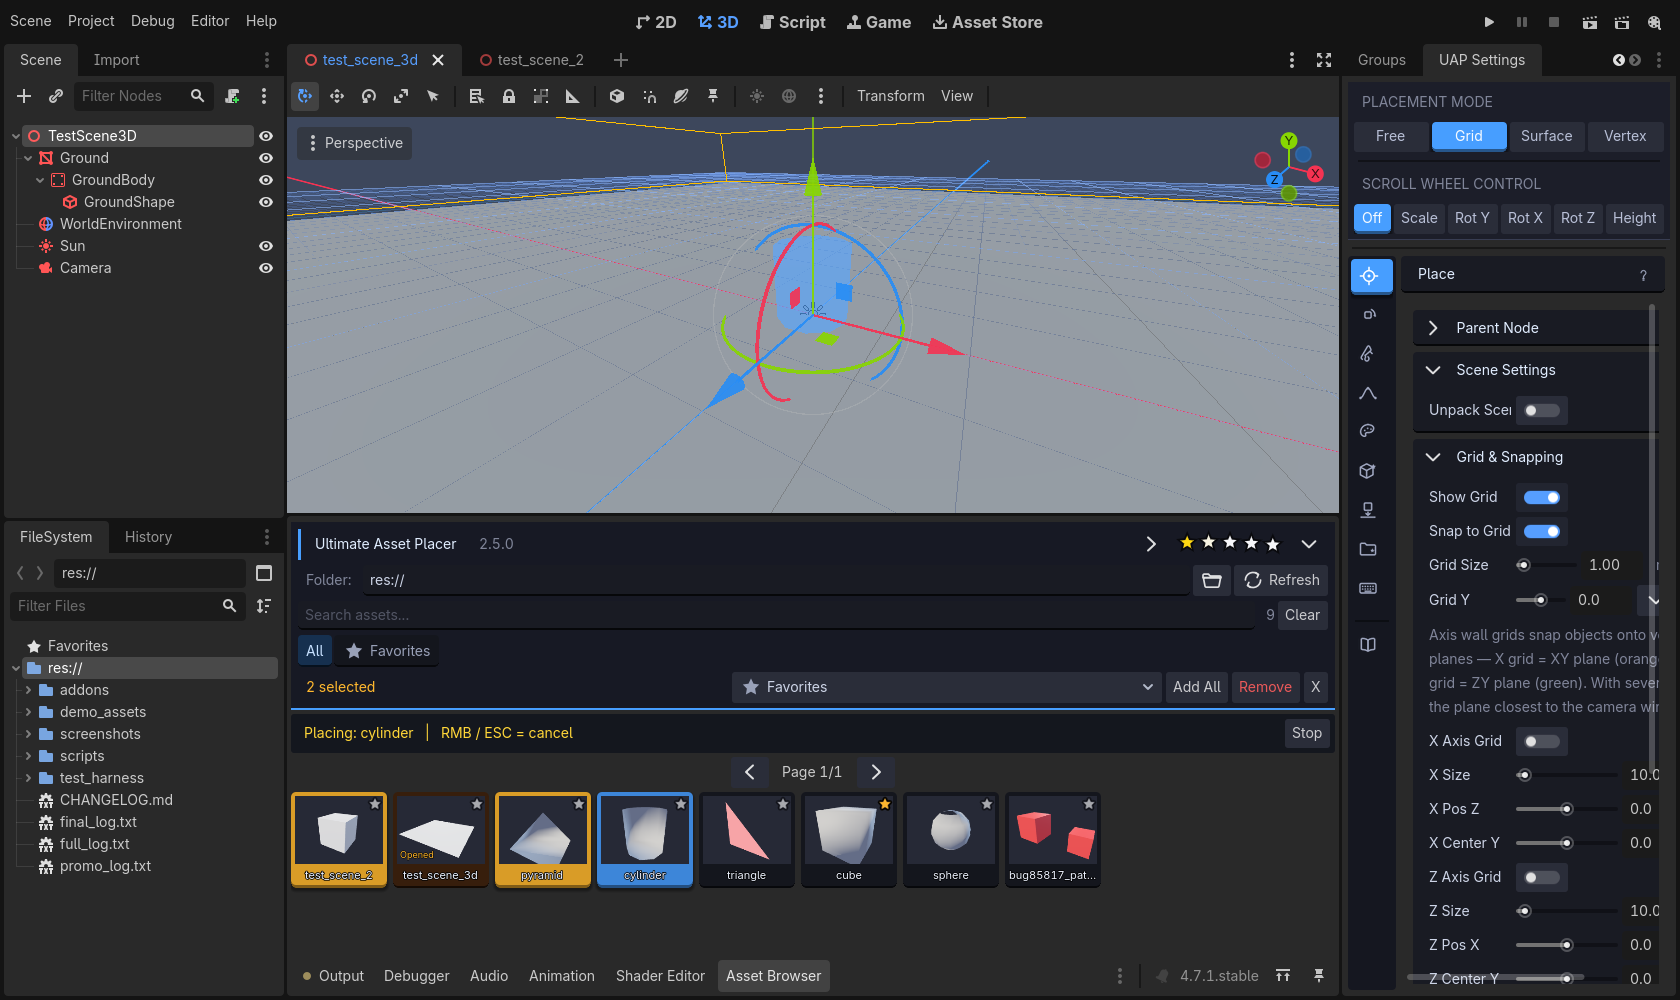
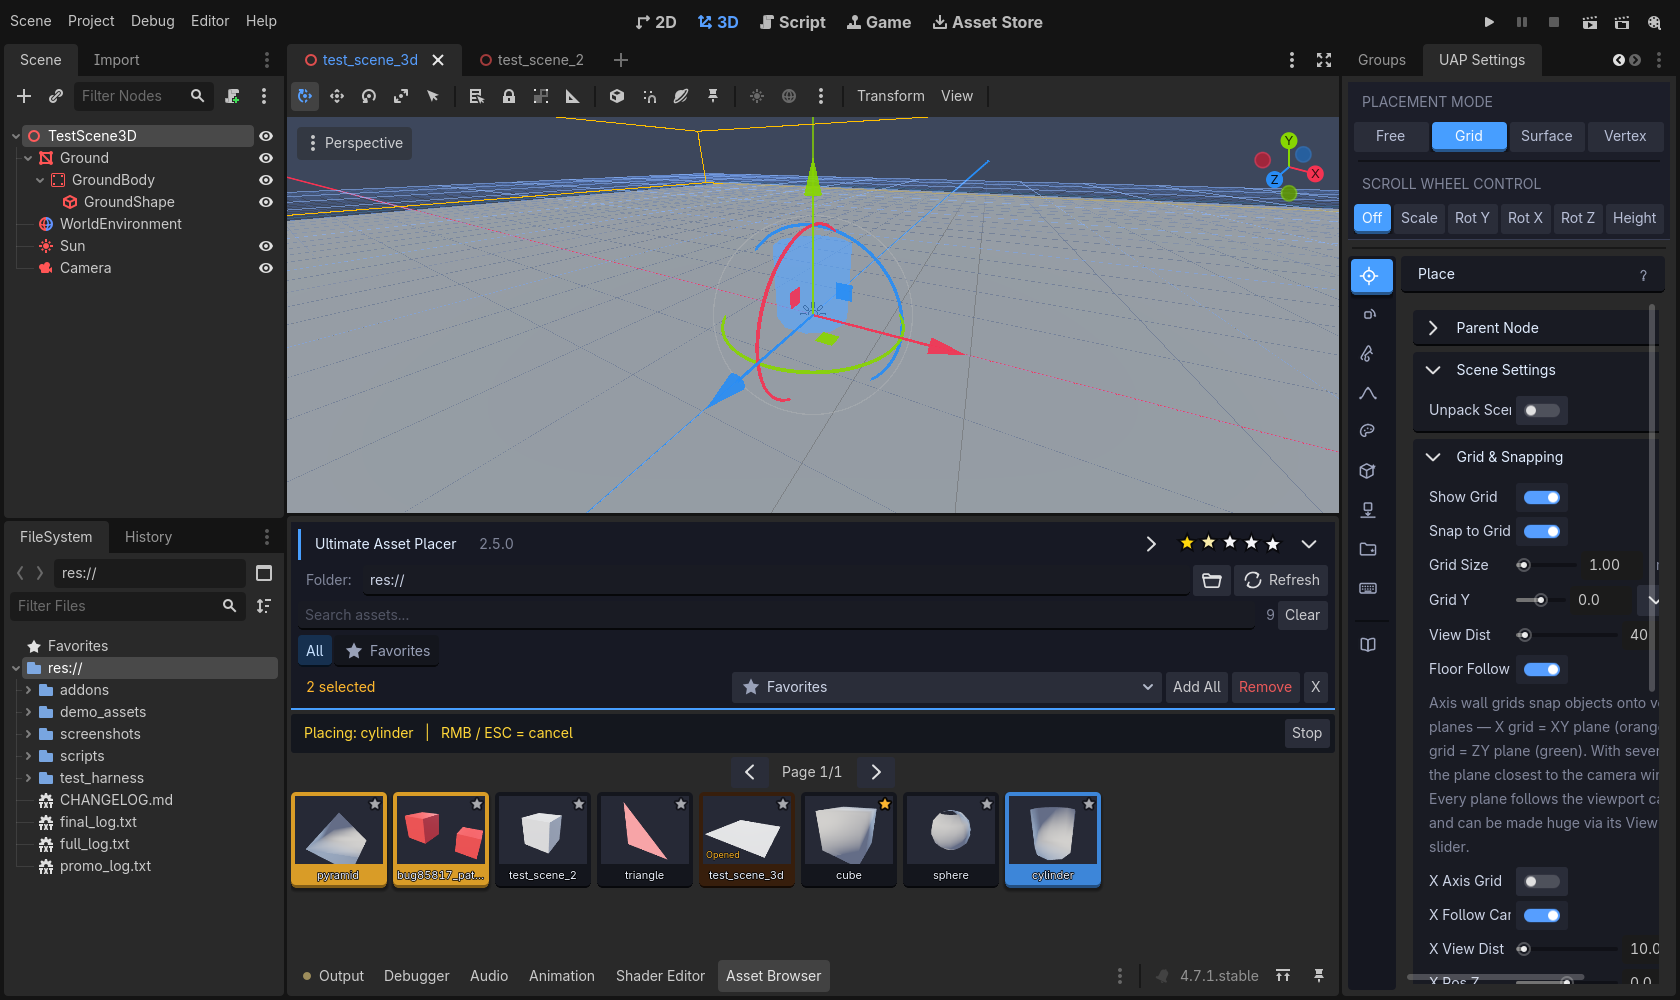
rev 8: infinite camera-following grids (per-plane View Dist 1-2000m + Follow Cam toggles, 3-node split, world-locked lines) + re-add after remove fix (unhide on drag-drop/import/merge); docs+README+CHANGELOG; harness 80 steps

diff --git a/README.md b/README.md
@@ -9,7 +9,8 @@
 ## Highlights
 
 - **Four placement modes** — Free, Grid, Surface (physics raycast), and Vertex (mesh magnet snap).
-- **Axis wall grids** — optional X/Z vertical snap planes (orange XY wall / green ZY wall), each with its own size, position and on/off toggle; objects snap onto whichever enabled plane is under the mouse.
+- **Infinite camera-following grids** — the floor and the optional X/Z wall grids ride the viewport camera (lines stay locked onto world coordinates), each with an adjustable view distance up to 2000 m; grid is always right where you are.
+- **Axis wall grids** — optional X/Z vertical snap planes (orange XY wall / green ZY wall), each with its own view distance, position and on/off toggle; objects snap onto whichever enabled plane is under the mouse.
 - **Paint & volumetric brush** — drag-paint, circular brush with density/falloff, and mask textures.
 - **MultiMesh painting** — thousands of instances in a single draw call.
 - **Advanced spline system** — scatter props along curves or deform meshes into roads/rivers; terrain snapping; bake to nodes or MultiMesh.
@@ -20,6 +21,30 @@
 - **Asset Zoo** — lays out your whole library in a 3D grid for inspection.
 
 ## What's new in v2.5.0 — the star, fixed for real; quieter, tighter panel
+
+### Update (rev 8) — infinite camera-following grids + re-add after remove
+
+**The grids follow you now.** Every grid plane — the blue floor and both
+optional walls — re-centers on the viewport camera as you navigate, so the
+grid renders wherever you are instead of hugging the world center. The lines
+themselves never slide: node positions move in whole Grid Size multiples (the
+bright every-5th rhythm in 5x multiples), so every line stays locked onto the
+same world coordinates and snapped placements still land exactly ON drawn
+lines. Each plane's **View Dist** slider (up to 2000 m) sets how far it
+reaches from the camera — crank it up for an effectively infinite grid. Don't
+want a plane to travel? Turn off its **Follow Cam** toggle and it pins to its
+configured world position again (Center Y back in charge for walls; wall
+planes always stay locked to their Pos axis).
+
+**Re-add fix.** Removing an asset via right-click "Remove from list" used to
+make it impossible to add back: dragging it from the FileSystem dock or
+importing its folder re-registered the file, but a leftover hidden flag kept
+the card invisible forever (only the all-or-nothing Restore Hidden button
+recovered it). Dragging a removed asset back in — or importing its folder —
+now automatically restores it, so anything you remove can always be added
+back whenever you want. Restore Hidden still works as the bulk reset.
+
+![Axis wall grids following the camera](screenshots/axis_grids.png)
 
 ### Update (rev 7) — axis wall grids (X / Z) + retractable rating stars
 

diff --git a/CHANGELOG.md b/CHANGELOG.md
@@ -8,6 +8,39 @@ Welcome again, and the panel got quieter and tighter. Verified against a real
 Godot 4.7.1 editor with a 40-step automated harness (assertions + rendered
 screenshots inspected by hand), zero script errors and zero audit fails.
 
+#### Update (2.5.0 rev 8) — infinite camera-following grids + re-add after remove
+- **Camera-following grids.** Every grid plane (blue floor, X wall, Z wall)
+  now re-centers on the viewport camera as you navigate — the grid renders
+  wherever you are instead of staying centred on the world origin. The mesh
+  split into three independent nodes (floor / X wall / Z wall) whose
+  positions update every frame, snapped to whole Grid Size multiples (5x for
+  the bright every-5th rhythm) so the drawn lines never slide: they stay
+  locked onto the same world coordinates and snapped placements still land
+  exactly ON drawn lines.
+- **Adjustable view distance.** New per-plane **View Dist** controls — the
+  floor gets its own slider (was hardwired at 40 m, now 1–2000 m) and the
+  wall Size sliders were renamed to View Dist with the ceiling raised from
+  500 m to 2000 m. Big values + camera following = effectively infinite grid.
+- **Follow Cam toggles.** Floor Follow Cam / X Follow Cam / Z Follow Cam
+  (all ON by default). Turning one off pins that plane to its configured
+  world position — walls return to their Center Y, the floor to the world
+  centre. Wall planes stay locked to their Pos axis even while following;
+  Pos/Centre sliders now reach ±2000 m.
+- **Re-add after remove fixed.** Right-click "Remove from list" hid assets
+  behind a persistent hidden flag that survived every re-add attempt: drag &
+  drop from the FileSystem dock re-registered the file but the browser filter
+  kept the card invisible forever. Any explicit re-add gesture (drag & drop,
+  folder import, extra-path merge) now clears the hidden flag automatically
+  and the status line reports the restore. Restore Hidden remains the bulk
+  reset, and the Format Filter info text documents the whole loop.
+- Harness grown to 80 steps: re-add regression (remove → drop restore, group
+  remove/re-add round-trip, folder-import restore), follow math (camera at
+  non-multiple positions → nodes snap to 5x Grid Size, plane locks honoured,
+  follow-off pins), an A/B far-camera shot pair proving the rendered grid
+  around the camera is UAP's (not the engine's native grid), and the rev-7
+  axis UI leg updated for the renamed rows + new toggles. All pass with zero
+  script errors.
+
 #### Update (2.5.0 rev 7) — axis wall grids (X / Z) + retractable rating stars
 - **Axis wall grids.** Two optional VERTICAL snap grids join the floor grid in
   Grid mode, each toggled on/off individually from the Grid & Snapping group
